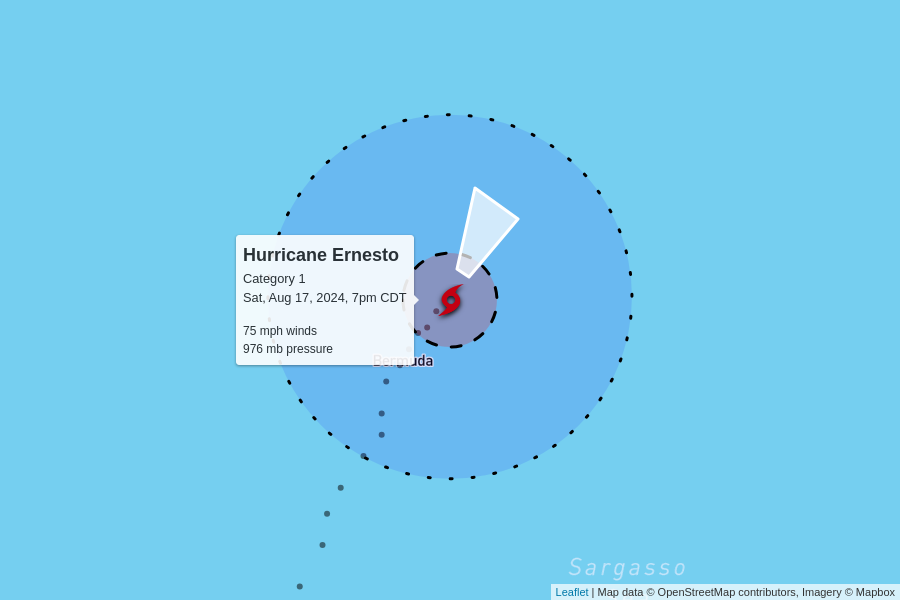
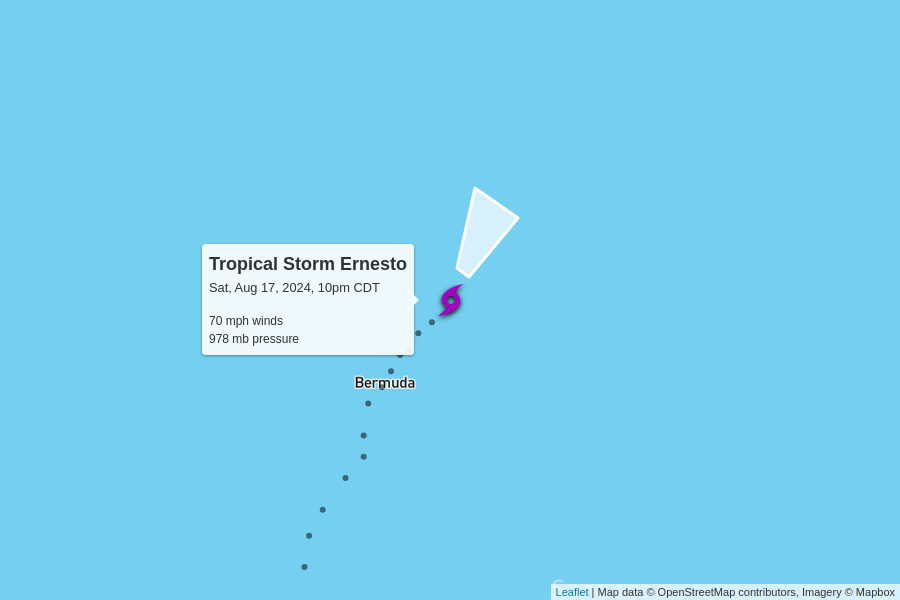
automatic update

diff --git a/docs/index.html b/docs/index.html
@@ -99,10 +99,10 @@
 
     <table>
       <tr>
-        <td colspan="6" class="storm category-1" >
+        <td colspan="6" class="storm category-0" >
           <h2>
-            Hurricane Ernesto - Category 1
-            <p class="updated">last updated <span data-time>2024-08-18T00:00:00.000Z</span></p>
+            Tropical Storm Ernesto
+            <p class="updated">last updated <span data-time>2024-08-18T03:00:00.000Z</span></p>
           </h2>
         </td>
       </tr>
@@ -117,10 +117,10 @@
       </tr>
       <tr>
         <td class="spacer"></td>
-        <td>75 mph<br>0 mph since last update</td>
-        <td>976 mb<br>0 mb since last update</td>
+        <td>70 mph<br>-5 mph since last update</td>
+        <td>978 mb<br>+2 mb since last update</td>
         <td>
-          6 mph to the north-northeast
+          8 mph to the north-northeast
           <br/>
           <span style="display: inline-block; font-size: 1.5em; transform: rotate(30deg);">↑</span>
         </td>
